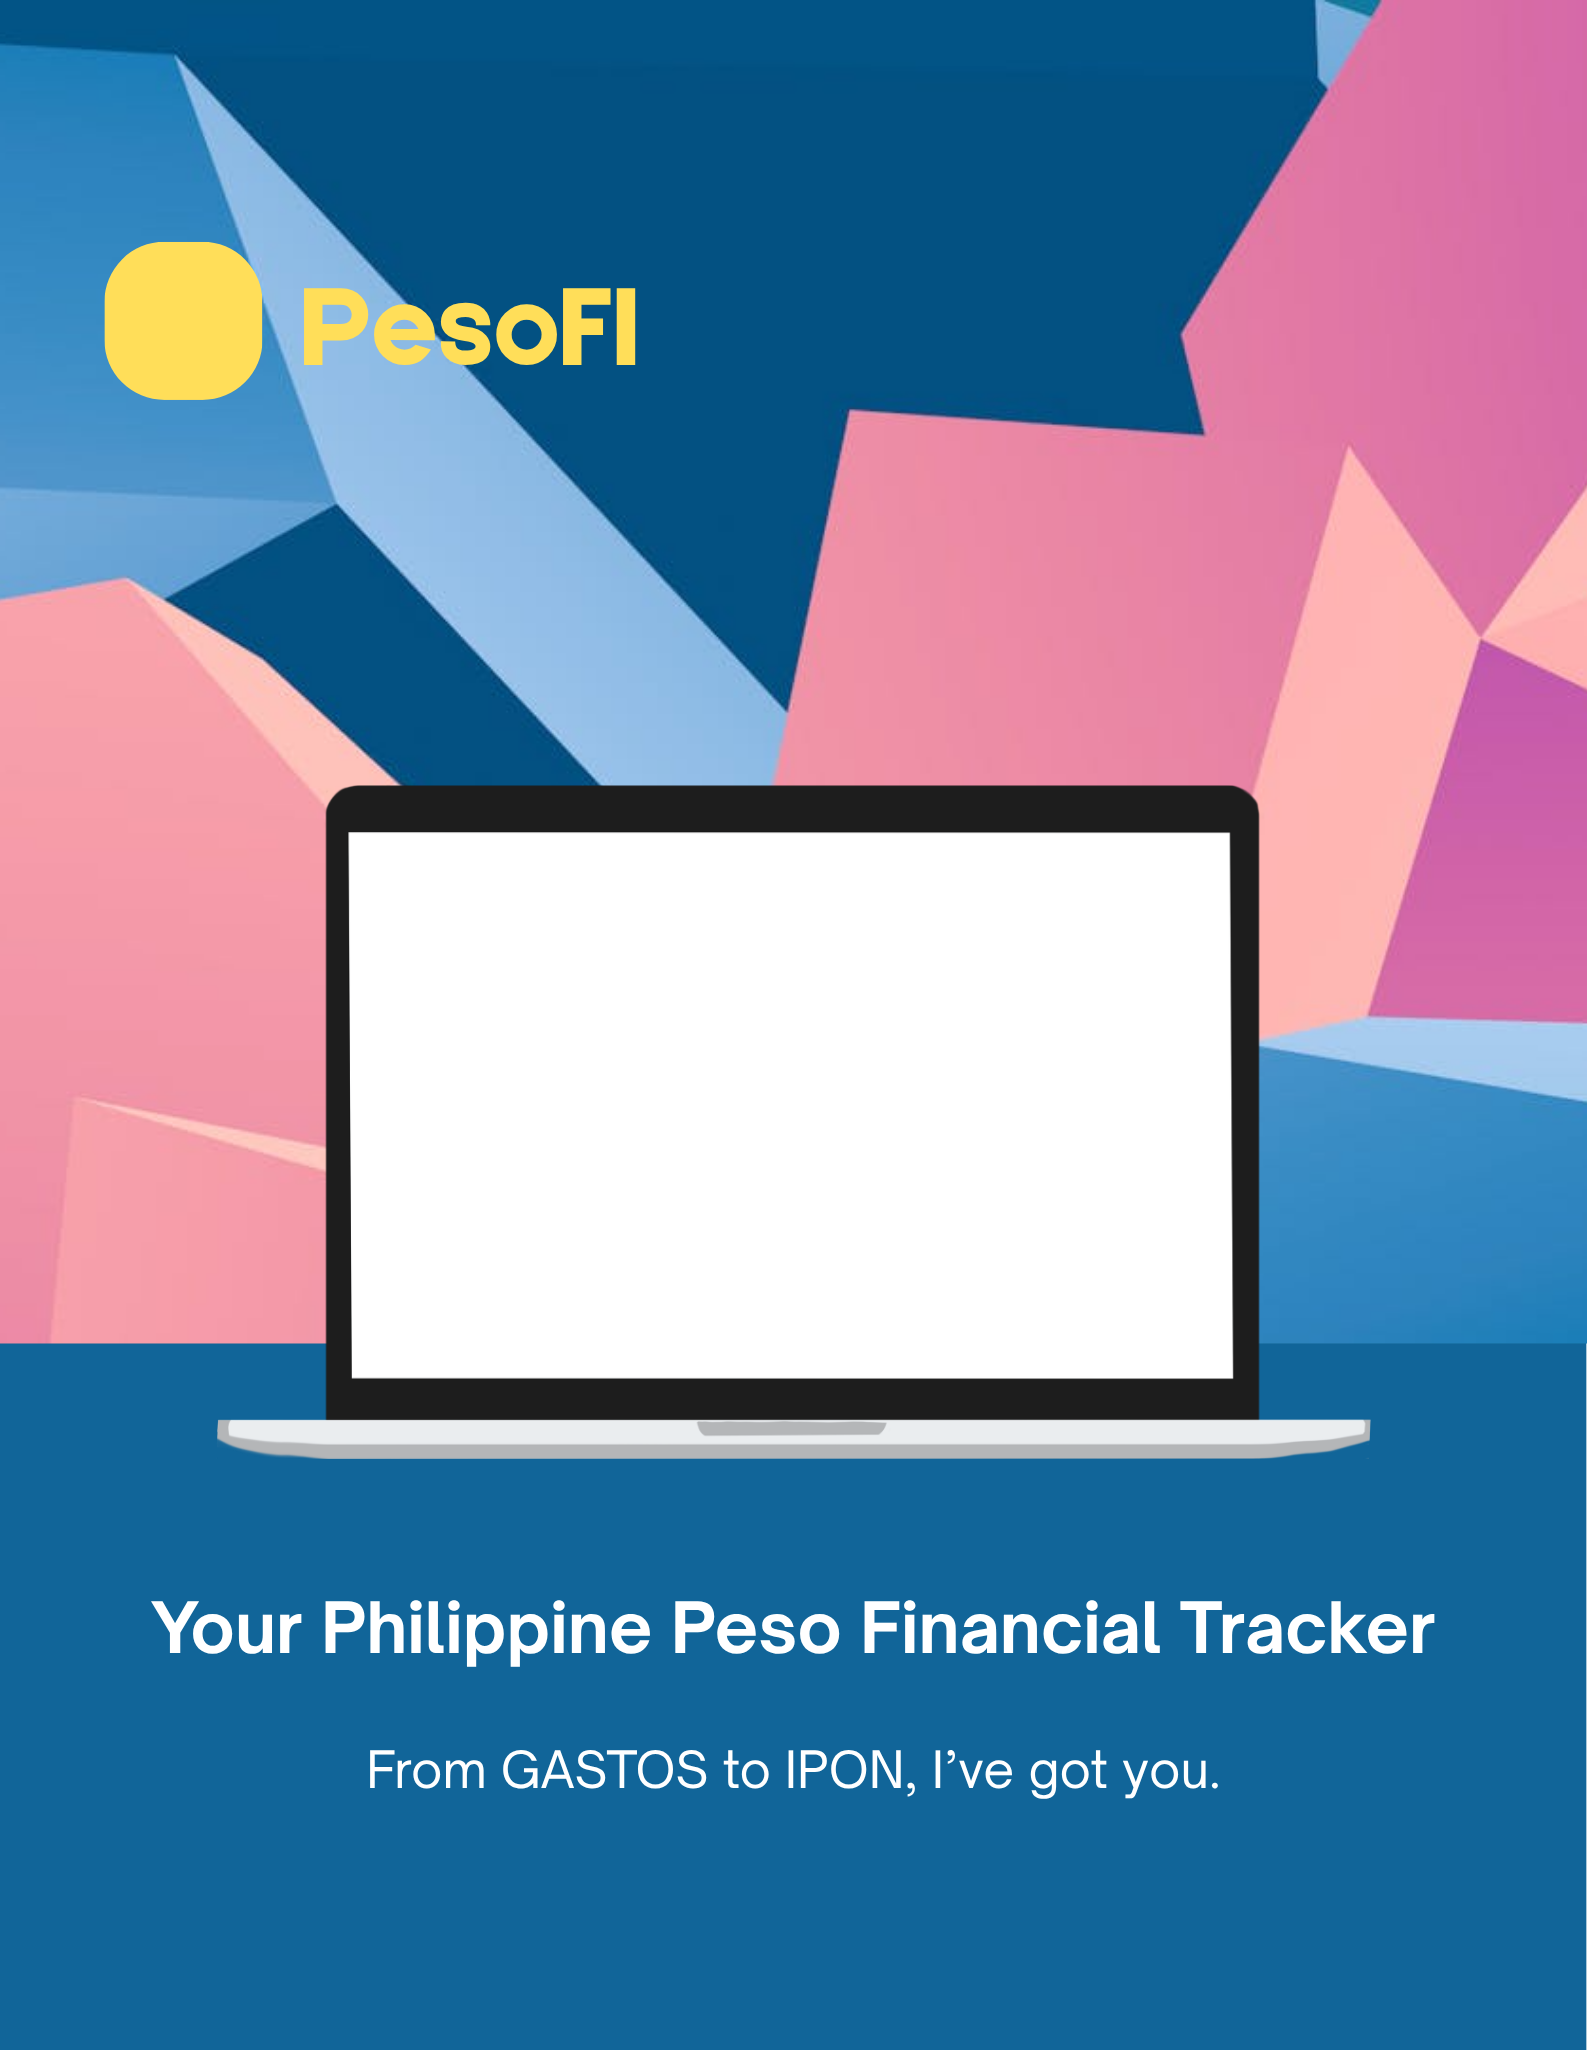
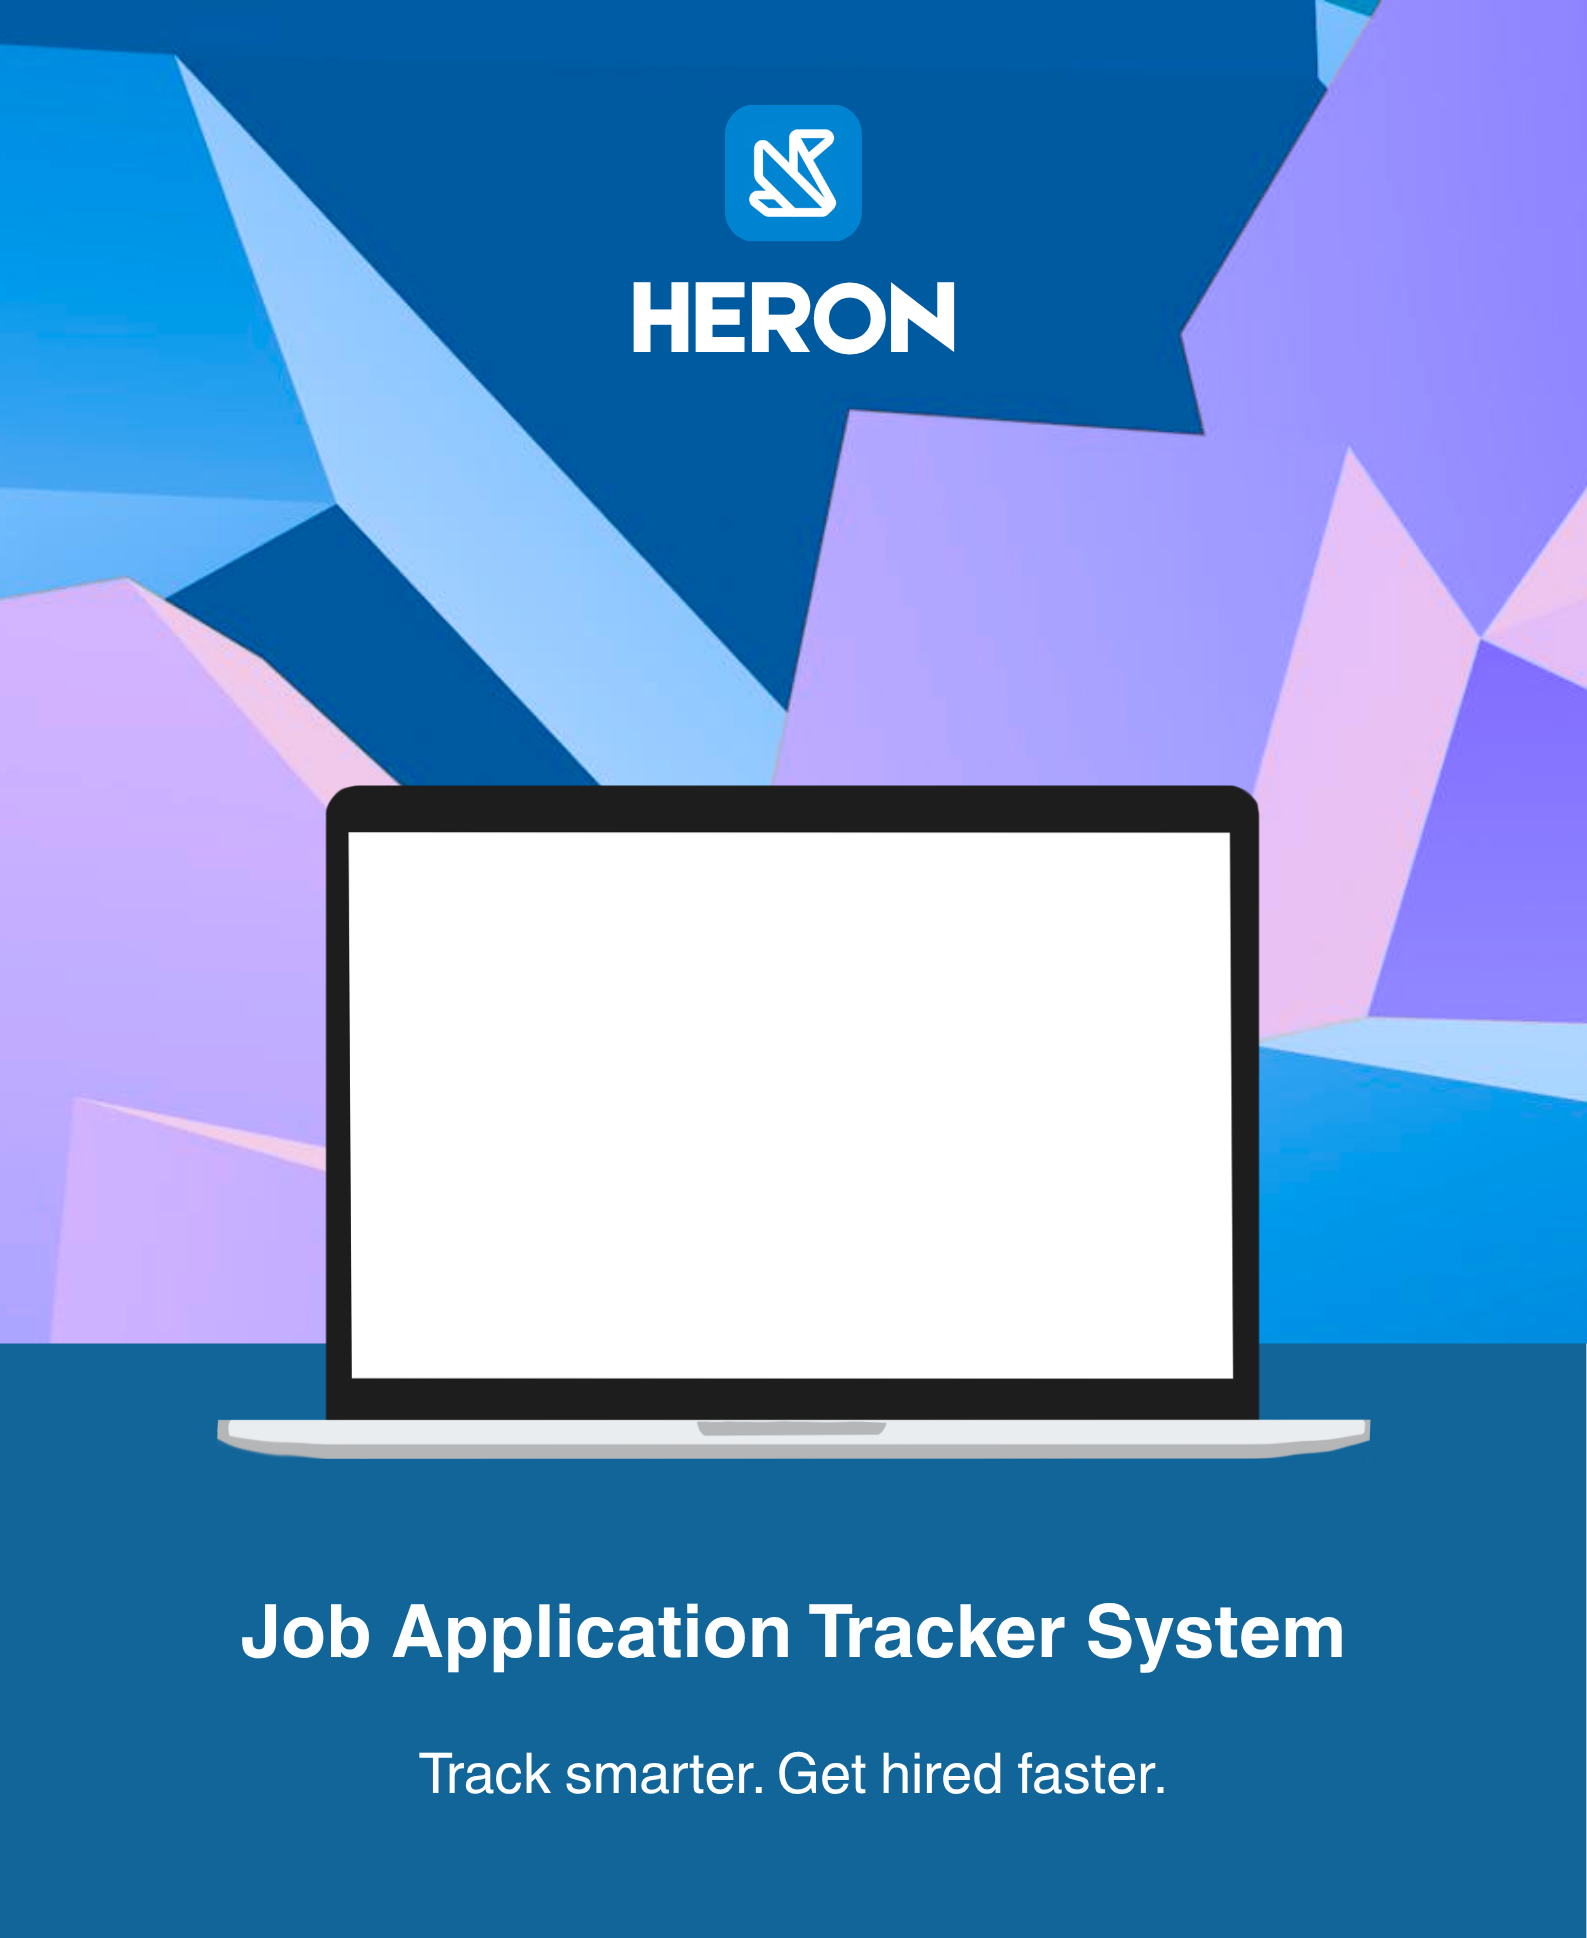
style: update Heron metadata and login page image

diff --git a/components/sidebar/app-sidebar.tsx b/components/sidebar/app-sidebar.tsx
@@ -1,12 +1,7 @@
 'use client';
 
 import * as React from 'react';
-import {
-  House,
-  GalleryVerticalEnd,
-  BriefcaseBusiness,
-  ChartPie,
-} from 'lucide-react';
+import { House, Origami, BriefcaseBusiness, ChartPie } from 'lucide-react';
 import { NavMain } from '@/components/sidebar/nav-main';
 import { NavUser } from '@/components/sidebar/nav-user';
 import {
@@ -68,7 +63,7 @@ export function AppSidebar({ ...props }: React.ComponentProps<typeof Sidebar>) {
           <SidebarMenuItem>
             <SidebarMenuButton size="lg" className="pointer-events-none">
               <div className="flex aspect-square size-8 items-center justify-center rounded-lg bg-sky-600 text-sidebar-primary-foreground">
-                <GalleryVerticalEnd className="size-4" />
+                <Origami className="size-4" />
               </div>
               <div className="grid flex-1 text-left text-sm leading-tight">
                 <span className="truncate font-medium">Heron</span>

diff --git a/components/forms/signup-form.tsx b/components/forms/signup-form.tsx
@@ -77,6 +77,7 @@ export function SignupForm({
                   variant="outline"
                   type="button"
                   onClick={handleLoginWithGoogle}
+                  className="bg-white"
                 >
                   <Image src={Google} alt="Image" width={19} height={19} />
                   Login with Google

diff --git a/components/forms/login-form.tsx b/components/forms/login-form.tsx
@@ -72,6 +72,7 @@ export function LoginForm({
                   variant="outline"
                   type="button"
                   onClick={handleLoginWithGoogle}
+                  className="bg-white"
                 >
                   <Image src={Google} alt="Image" width={19} height={19} />
                   Login with Google

diff --git a/app/layout.tsx b/app/layout.tsx
@@ -13,7 +13,7 @@ const geistMono = Geist_Mono({
 });
 
 export const metadata: Metadata = {
-  title: 'Heron',
+  title: 'Heron - Job Application Tracker',
   description: 'Job Application Tracker',
 };
 

diff --git a/app/(main)/dashboard/page.tsx b/app/(main)/dashboard/page.tsx
@@ -1,3 +1,7 @@
+export const metadata = {
+  title: 'Dashboard - Heron',
+};
+
 export default function DashboardPage() {
   return (
     <div className="pt-0 px-8">
